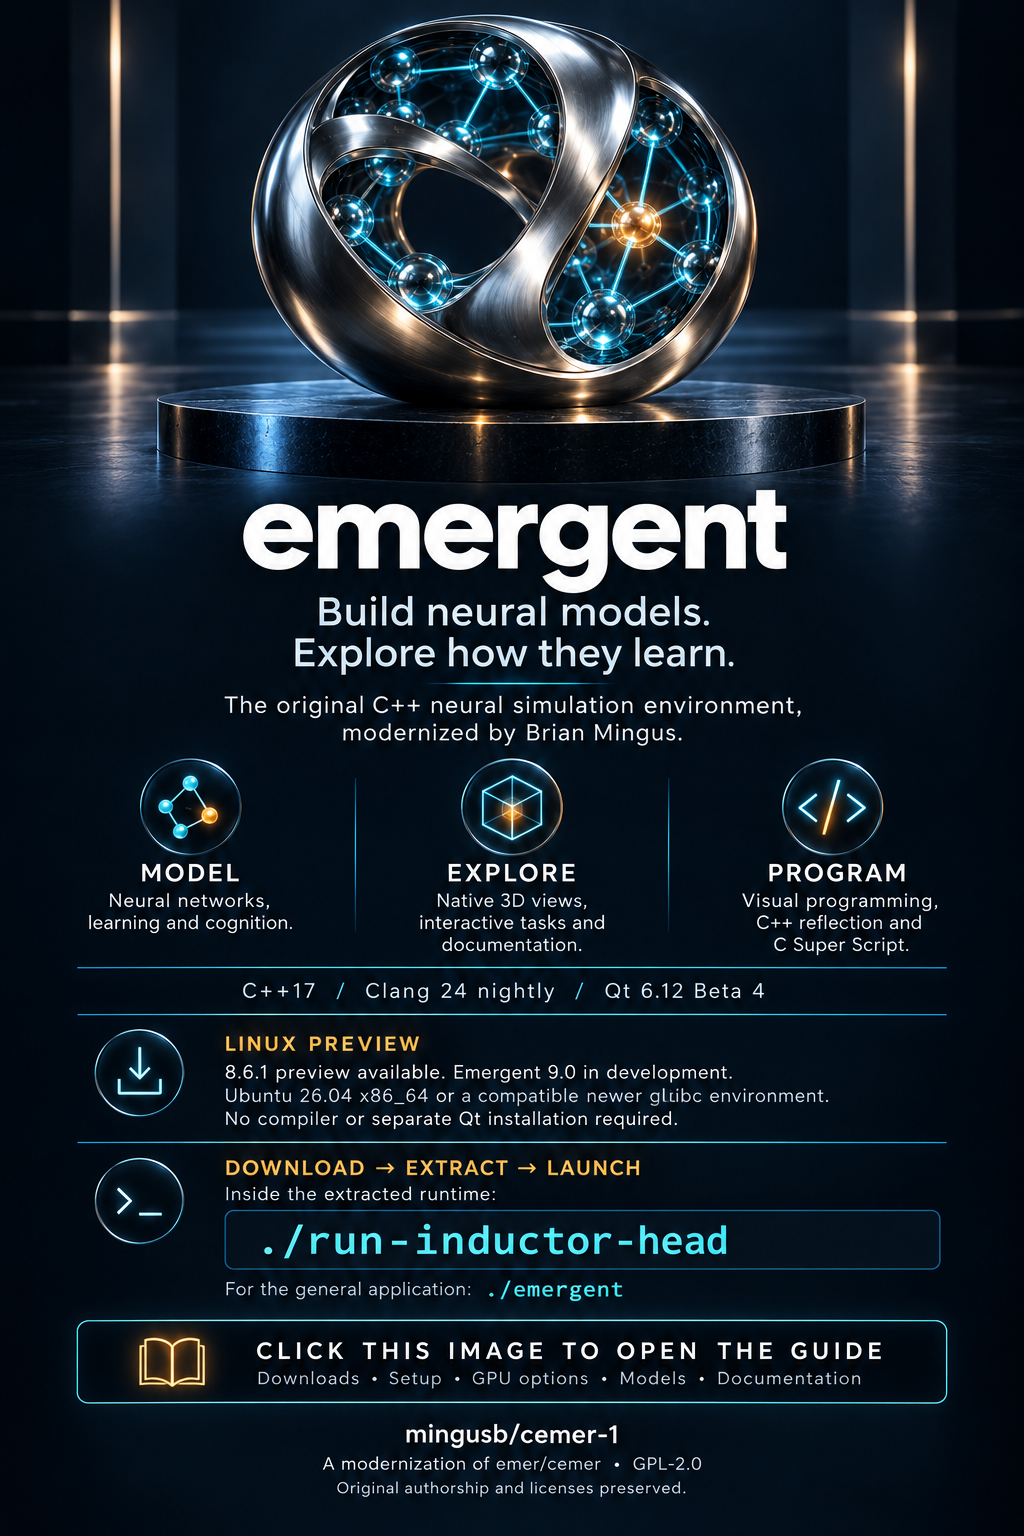
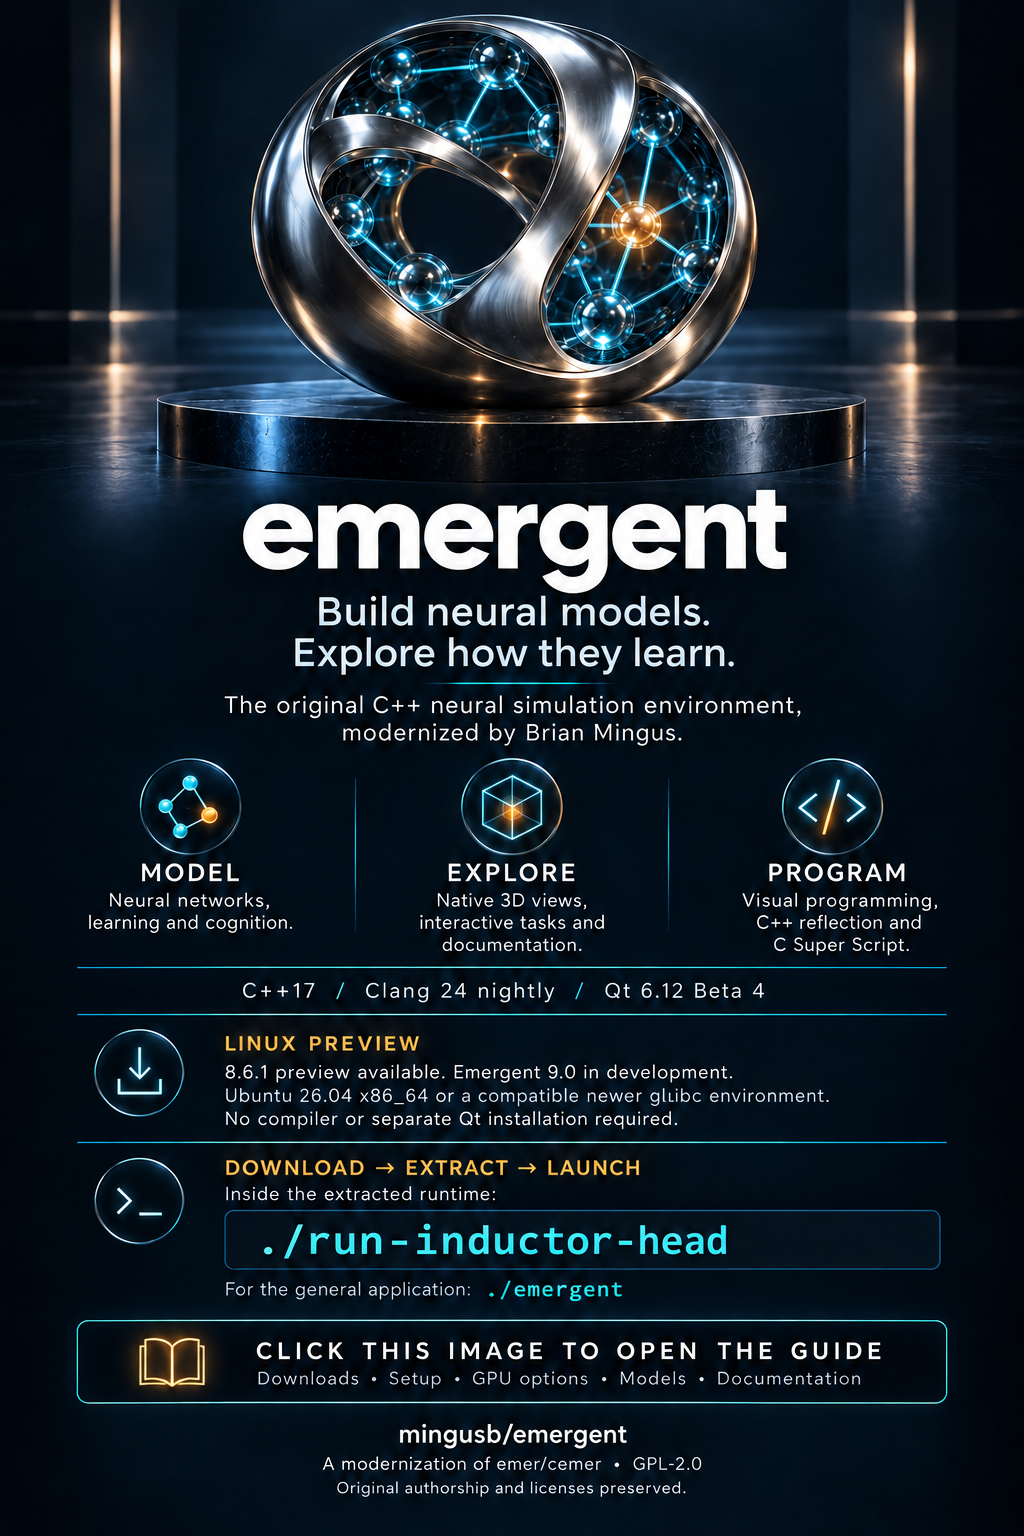
Update visual README and links for emergent rename
Replace the generated image footer with mingusb/emergent, preserving the artwork and upstream attribution. Update the setup guide release and download URLs to the renamed repository.

diff --git a/project/docs/START_HERE.md b/project/docs/START_HERE.md
@@ -23,10 +23,10 @@ Sources: [original PDP handbook introduction](https://web.stanford.edu/~jlmcc/pa
 
 ## Run on Linux
 
-Download and launch the [Linux x86_64 preview](https://github.com/mingusb/cemer-1/releases/tag/v8.6.1-clang24-qt6.12-preview.1):
+Download and launch the [Linux x86_64 preview](https://github.com/mingusb/emergent/releases/tag/v8.6.1-clang24-qt6.12-preview.1):
 
 ```sh
-curl -fL https://github.com/mingusb/cemer-1/releases/download/v8.6.1-clang24-qt6.12-preview.1/emergent-linux-x86_64.tar.xz -o emergent-linux-x86_64.tar.xz
+curl -fL https://github.com/mingusb/emergent/releases/download/v8.6.1-clang24-qt6.12-preview.1/emergent-linux-x86_64.tar.xz -o emergent-linux-x86_64.tar.xz
 tar -xJf emergent-linux-x86_64.tar.xz
 ./emergent-linux-x86_64/run-inductor-head
 ```
